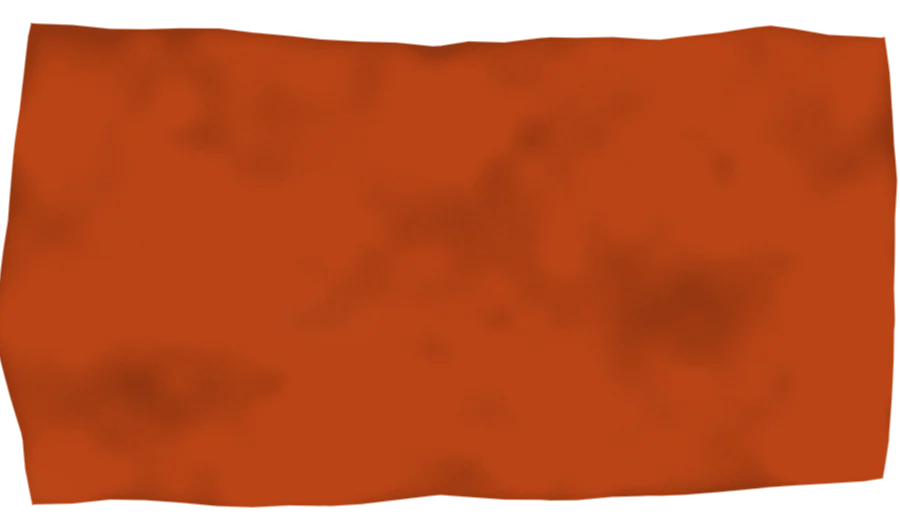
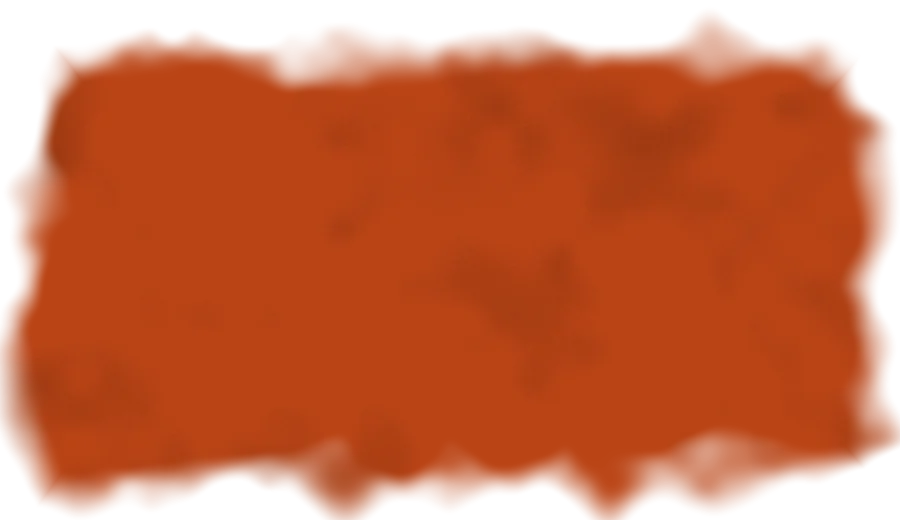
Home strip: wet-in-wet edges that fade softly into the paper
make_wash.py: smoothstep feather with large blooms instead of a hard,
ragged brush edge; longer soft tips; no rim pooling. More padding so
the labels sit in solid pigment (still >= 4.8:1).

diff --git a/css/style.css b/css/style.css
@@ -607,7 +607,7 @@ html.zooming-out .hero-text { transition: opacity .6s ease .55s; }
   display: grid;
   grid-template-columns: repeat(6, minmax(0, 1fr));
   margin: 0;
-  padding: 34px clamp(12px, 3vw, 40px) 30px;
+  padding: 50px clamp(40px, 5vw, 72px) 46px;
   list-style: none;
   background: url("../assets/wash-wide.webp") center / 100% 100% no-repeat;
 }
@@ -695,7 +695,7 @@ html.zooming-out .hero-text { transition: opacity .6s ease .55s; }
     transition: opacity .5s;
   }
   .swipe-hint.gone { opacity: 0; }
-  .strip ul { grid-template-columns: repeat(3, minmax(0, 1fr)); row-gap: 6px; padding: 40px 10px 38px; background-image: url("../assets/wash-tall.webp"); }
+  .strip ul { grid-template-columns: repeat(3, minmax(0, 1fr)); row-gap: 6px; padding: 56px 22px 52px; background-image: url("../assets/wash-tall.webp"); }
   :root[data-theme="night"] .strip ul { background-image: url("../assets/wash-tall-night.webp"); }
   .strip a { font-size: var(--fs-m); }
   .story-frame { height: 78svh; }

diff --git a/index.html b/index.html
@@ -9,7 +9,7 @@
   <link rel="preconnect" href="https://fonts.gstatic.com" crossorigin>
   <link href="https://fonts.googleapis.com/css2?family=Beth+Ellen&family=Cormorant+Garamond:wght@500;600&family=Cormorant+SC:wght@700&family=Inter:wght@400;500;600&family=Lora:ital,wght@0,400;0,600;1,400&display=swap" rel="stylesheet">
   <link rel="preload" as="image" href="assets/village-day.webp">
-  <link rel="stylesheet" href="css/style.css?v=46">
+  <link rel="stylesheet" href="css/style.css?v=47">
   <script>
     (function () {
       var saved = null;

diff --git a/accommodation.html b/accommodation.html
@@ -7,7 +7,7 @@
   <link rel="preconnect" href="https://fonts.googleapis.com">
   <link rel="preconnect" href="https://fonts.gstatic.com" crossorigin>
   <link href="https://fonts.googleapis.com/css2?family=Beth+Ellen&family=Cormorant+Garamond:wght@500;600&family=Cormorant+SC:wght@700&family=Inter:wght@400;500;600&family=Lora:ital,wght@0,400;0,600;1,400&display=swap" rel="stylesheet">
-  <link rel="stylesheet" href="css/style.css?v=46">
+  <link rel="stylesheet" href="css/style.css?v=47">
   <script>
     (function () {
       var saved = null;

diff --git a/location.html b/location.html
@@ -7,7 +7,7 @@
   <link rel="preconnect" href="https://fonts.googleapis.com">
   <link rel="preconnect" href="https://fonts.gstatic.com" crossorigin>
   <link href="https://fonts.googleapis.com/css2?family=Beth+Ellen&family=Cormorant+Garamond:wght@500;600&family=Cormorant+SC:wght@700&family=Inter:wght@400;500;600&family=Lora:ital,wght@0,400;0,600;1,400&display=swap" rel="stylesheet">
-  <link rel="stylesheet" href="css/style.css?v=46">
+  <link rel="stylesheet" href="css/style.css?v=47">
   <script>
     (function () {
       var saved = null;

diff --git a/map.html b/map.html
@@ -7,7 +7,7 @@
   <link rel="preconnect" href="https://fonts.googleapis.com">
   <link rel="preconnect" href="https://fonts.gstatic.com" crossorigin>
   <link href="https://fonts.googleapis.com/css2?family=Beth+Ellen&family=Cormorant+Garamond:wght@500;600&family=Cormorant+SC:wght@700&family=Inter:wght@400;500;600&family=Lora:ital,wght@0,400;0,600;1,400&display=swap" rel="stylesheet">
-  <link rel="stylesheet" href="css/style.css?v=46">
+  <link rel="stylesheet" href="css/style.css?v=47">
   <script>
     (function () {
       var saved = null;

diff --git a/program.html b/program.html
@@ -7,7 +7,7 @@
   <link rel="preconnect" href="https://fonts.googleapis.com">
   <link rel="preconnect" href="https://fonts.gstatic.com" crossorigin>
   <link href="https://fonts.googleapis.com/css2?family=Beth+Ellen&family=Cormorant+Garamond:wght@500;600&family=Cormorant+SC:wght@700&family=Inter:wght@400;500;600&family=Lora:ital,wght@0,400;0,600;1,400&display=swap" rel="stylesheet">
-  <link rel="stylesheet" href="css/style.css?v=46">
+  <link rel="stylesheet" href="css/style.css?v=47">
   <script>
     (function () {
       var saved = null;

diff --git a/rsvp.html b/rsvp.html
@@ -7,7 +7,7 @@
   <link rel="preconnect" href="https://fonts.googleapis.com">
   <link rel="preconnect" href="https://fonts.gstatic.com" crossorigin>
   <link href="https://fonts.googleapis.com/css2?family=Beth+Ellen&family=Cormorant+Garamond:wght@500;600&family=Cormorant+SC:wght@700&family=Inter:wght@400;500;600&family=Lora:ital,wght@0,400;0,600;1,400&display=swap" rel="stylesheet">
-  <link rel="stylesheet" href="css/style.css?v=46">
+  <link rel="stylesheet" href="css/style.css?v=47">
   <script>
     (function () {
       var saved = null;

diff --git a/travel.html b/travel.html
@@ -7,7 +7,7 @@
   <link rel="preconnect" href="https://fonts.googleapis.com">
   <link rel="preconnect" href="https://fonts.gstatic.com" crossorigin>
   <link href="https://fonts.googleapis.com/css2?family=Beth+Ellen&family=Cormorant+Garamond:wght@500;600&family=Cormorant+SC:wght@700&family=Inter:wght@400;500;600&family=Lora:ital,wght@0,400;0,600;1,400&display=swap" rel="stylesheet">
-  <link rel="stylesheet" href="css/style.css?v=46">
+  <link rel="stylesheet" href="css/style.css?v=47">
   <script>
     (function () {
       var saved = null;

diff --git a/weather.html b/weather.html
@@ -7,7 +7,7 @@
   <link rel="preconnect" href="https://fonts.googleapis.com">
   <link rel="preconnect" href="https://fonts.gstatic.com" crossorigin>
   <link href="https://fonts.googleapis.com/css2?family=Beth+Ellen&family=Cormorant+Garamond:wght@500;600&family=Cormorant+SC:wght@700&family=Inter:wght@400;500;600&family=Lora:ital,wght@0,400;0,600;1,400&display=swap" rel="stylesheet">
-  <link rel="stylesheet" href="css/style.css?v=46">
+  <link rel="stylesheet" href="css/style.css?v=47">
   <script>
     (function () {
       var saved = null;

diff --git a/tools/make_wash.py b/tools/make_wash.py
@@ -3,8 +3,8 @@
   out: assets/wash-wide.webp, assets/wash-tall.webp            (day)
        assets/wash-wide-night.webp, assets/wash-tall-night.webp (night)
 
-A brushed band with ragged top and bottom edges, pigment pooling darker at the
-rims, soft blotches and paper grain. "wide" is for desktop (6 pages in a row),
+A band painted wet-in-wet: its edges fade and bloom softly into the paper,
+with soft blotches and paper grain inside. "wide" is for desktop (6 pages in a row),
 "tall" for phones (3 x 2). Night versions use the same tint as the night
 painting (tools/make_layers.py), so the strip sits in the same dusk.
 
@@ -40,30 +40,28 @@ def edge(rng, w, amp):
 
 
 def wash(w, h, seed):
+    """Wet-in-wet: the pigment fades and blooms into the paper instead of
+    stopping at a hard brush edge."""
     rng = np.random.default_rng(seed)
-    margin = min(round(h * .09), 26)
-    top = margin + edge(rng, w, margin * .55)
-    bottom = h - margin + edge(rng, w, margin * .55)
+    margin = min(round(h * .17), 44)              # room for the soft fade
+    feather = margin * .85
+    top = margin + edge(rng, w, margin * .3)
+    bottom = h - margin + edge(rng, w, margin * .3)
     yy = np.arange(h)[:, None]
     xx = np.arange(w)[None, :]
-    # the brush ends: ragged, slightly rounded tips instead of a straight cut
-    end = min(round(w * .014), 14)
-    left = end + edge(rng, h, end * .8)[:, None] + (2 * (yy / h) - 1) ** 2 * end * 1.4
-    right = w - end + edge(rng, h, end * .8)[:, None] - (2 * (yy / h) - 1) ** 2 * end * 1.4
+    end = min(round(w * .035), 60)                # long, soft tapering ends
+    left = end + edge(rng, h, end * .3)[:, None] + (2 * (yy / h) - 1) ** 2 * end * .8
+    right = w - end + edge(rng, h, end * .3)[:, None] - (2 * (yy / h) - 1) ** 2 * end * .8
     inside = np.minimum.reduce([yy - top[None, :], bottom[None, :] - yy, xx - left, right - xx])
-    inside = np.clip(inside, -2, 60)
-    alpha = np.clip(inside / 2.2 + .5, 0, 1)
+    # blooms: the wet edge creeps out unevenly
+    inside = inside + noise(rng, h, w, 60, feather * .4) + noise(rng, h, w, 24, feather * .08)
+    t = np.clip((inside + feather * .55) / (feather * 1.4), 0, 1)
+    alpha = t * t * (3 - 2 * t)                   # smoothstep
 
-    # pigment pools at the drying edge: darker within ~10 px of the rim
-    rim = np.exp(-np.clip(inside, 0, None) / 9.0) * alpha
-    blotch = noise(rng, h, w, 120, .07) + noise(rng, h, w, 34, .035)
-    grain = rng.normal(0, .025, (h, w))
-    grain = ndimage.gaussian_filter(grain, .6)
-    shade = 1 + blotch + grain - .16 * rim                     # < 1 = more pigment
-    rgb = PIGMENT[None, None, :] * np.clip(shade, .8, 1.0)[..., None]
-    # a few lighter, wetter pools in the middle of the band
-    pools = np.clip(noise(rng, h, w, 200, 1.0) - .9, 0, None) * .03
-    rgb = rgb + (255 - rgb) * pools[..., None] * alpha[..., None]
+    blotch = noise(rng, h, w, 120, .06) + noise(rng, h, w, 34, .03)
+    grain = ndimage.gaussian_filter(rng.normal(0, .022, (h, w)), .6)
+    shade = 1 + blotch + grain
+    rgb = PIGMENT[None, None, :] * np.clip(shade, .82, 1.0)[..., None]
     return np.clip(rgb, 0, 255), alpha
 
 

diff --git a/tools/make_pages.py b/tools/make_pages.py
@@ -360,7 +360,7 @@ HEAD = """<!doctype html>
   <link rel="preconnect" href="https://fonts.googleapis.com">
   <link rel="preconnect" href="https://fonts.gstatic.com" crossorigin>
   <link href="https://fonts.googleapis.com/css2?family=Beth+Ellen&family=Cormorant+Garamond:wght@500;600&family=Cormorant+SC:wght@700&family=Inter:wght@400;500;600&family=Lora:ital,wght@0,400;0,600;1,400&display=swap" rel="stylesheet">
-  <link rel="stylesheet" href="css/style.css?v=46">
+  <link rel="stylesheet" href="css/style.css?v=47">
   <script>
     (function () {{
       var saved = null;

diff --git a/CHANGELOG.md b/CHANGELOG.md
@@ -8,7 +8,7 @@ Newest first. Dates are when the change was made; "Unreleased" is not pushed to 
 ### Changed
 - **Weather numbers** are an open row between two hairlines instead of three boxed cards, with the icons tinted in the page's ink.
 - **On phones the watercolour objects are small accents** (sun, crabs, disco ball, oysters, sardine – 150 px at most) instead of filling a screen each.
-- **The home strip is painted:** the flat orange block is now a terracotta watercolour wash with brushed, ragged edges (its own shape on phones). At night it takes the dusk tint of the night village and the icons are lighter and quieter, so they no longer glare.
+- **The home strip is painted:** the flat orange block is now a terracotta watercolour wash, painted wet-in-wet so its edges fade and bloom softly into the paper (its own shape on phones). At night it takes the dusk tint of the night village and the icons are lighter and quieter, so they no longer glare.
 - **One ink per page, from the village:** titles and accents use only the painting's three pigments – azulejo blue, roof terracotta, sage olive – and every section keeps its page's ink (Program was wine, coral and brown; Stay had a wine section; Travel a brown one; dishes rust).
 - **Footer:** the little drawing is replaced by the village painting itself, small – the same three houses as on the home page, and at night the dark version with the windows lit.
 - **Home:** "Everything in the village is clickable…" now sits between the village and the orange strip.
